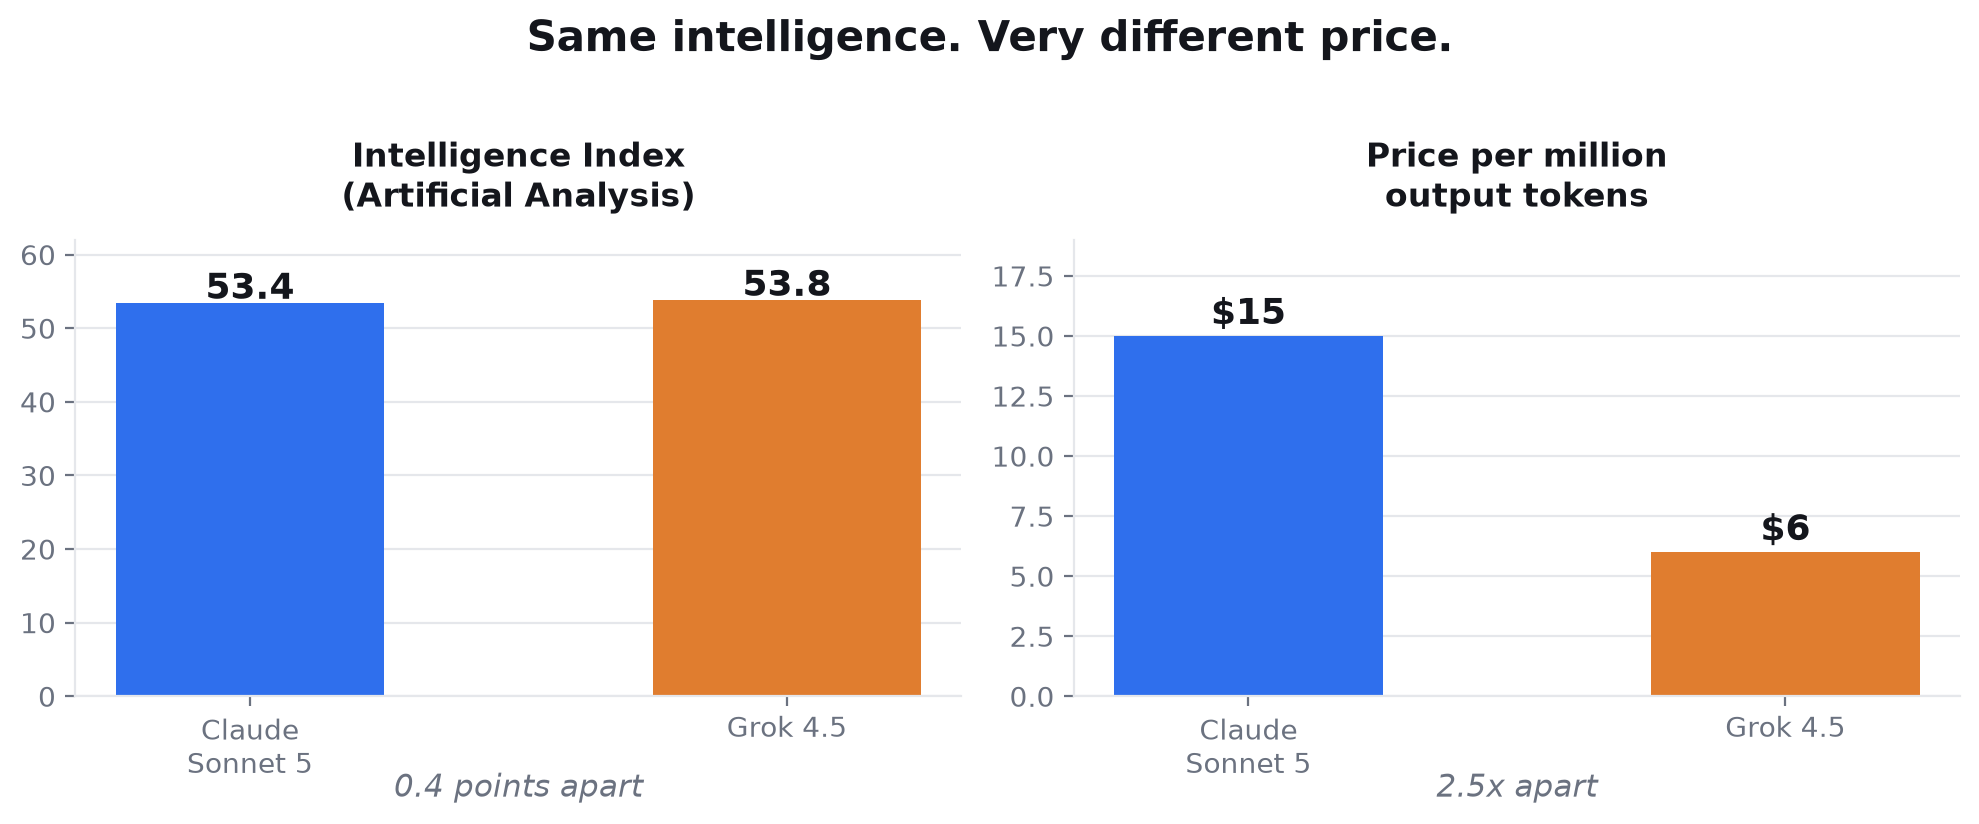
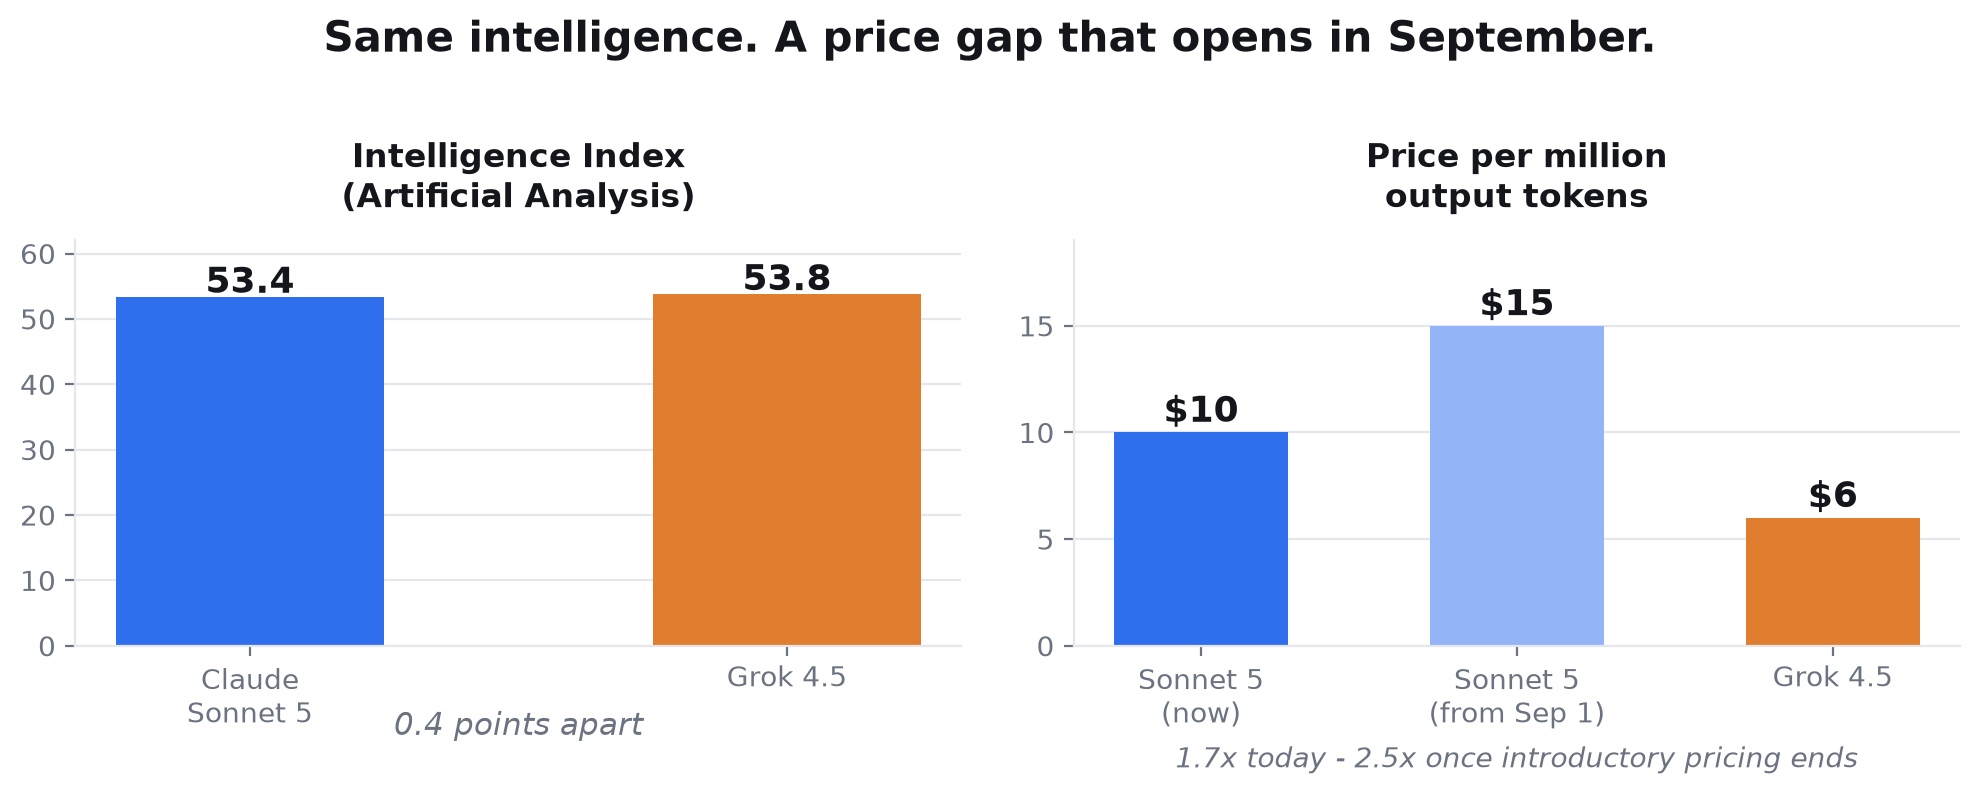
fix(posts): correct Sonnet 5 pricing from the vendor, not a secondary source
The post cited a third-party blog for Claude pricing and used $3/$15. Anthropic's
own docs show Sonnet 5 is on introductory pricing of $2/$10 through 31 Aug 2026,
with $3/$15 starting 1 Sep. So input is identical to Grok ($2 vs $2) and output
is 1.7x today, not 2.5x - the headline number was wrong.

Reframed around what is actually true and more useful: the models are near-level
on price right now, and the gap opens to 2.5x in September. Adds Anthropic's note
that Sonnet 5 tokenizes ~30% more tokens for the same text, so price per token
understates cost per unit of work. Chart redrawn with now/September/Grok bars.
Both labs pricing now cited first-party.

diff --git a/posts/2026-07-18-sonnet-5-vs-grok-4-5-one-line/index.html b/posts/2026-07-18-sonnet-5-vs-grok-4-5-one-line/index.html
@@ -4,28 +4,30 @@
   <meta charset="utf-8">
   <meta name="viewport" content="width=device-width, initial-scale=1.0">
   <meta name="author" content="ylnhari">
-  <meta name="description" content="Claude Sonnet 5 and Grok 4.5 sit 0.4 points apart on the Artificial Analysis index and 2.5x apart on output price. A practical comparison of where each one actually wins.">
-  <meta property="og:title" content="Claude Sonnet 5 vs Grok 4.5: Same Intelligence, Very Different Price">
-  <meta property="og:description" content="0.4 points apart on the independent intelligence index. 2.5x apart on output tokens. Where each model actually wins, and how to choose.">
+  <meta name="description" content="Claude Sonnet 5 and Grok 4.5 sit 0.4 points apart on the Artificial Analysis index. On price they are close today - until Sonnet's introductory rate ends on 31 August and the output gap widens to 2.5x.">
+  <meta property="og:title" content="Claude Sonnet 5 vs Grok 4.5: Same Intelligence, and a Price Gap Opening in September">
+  <meta property="og:description" content="0.4 points apart on the independent intelligence index, and nearly level on price - until Sonnet's introductory rate ends. Where each model actually wins, and how to choose.">
   <meta property="og:image" content="https://images.unsplash.com/photo-1516110833967-0b5716ca1387?w=1200&q=80">
-  <title>Claude Sonnet 5 vs Grok 4.5: Same Intelligence, Very Different Price</title>
+  <title>Claude Sonnet 5 vs Grok 4.5: Same Intelligence, and a Price Gap Opening in September</title>
   <link rel="stylesheet" href="../../assets/style.css">
 </head>
 <body>
 <article>
 
-<h1>Claude Sonnet 5 vs Grok 4.5: Same Intelligence, Very Different Price</h1>
+<h1>Claude Sonnet 5 vs Grok 4.5: Same Intelligence, and a Price Gap Opening in September</h1>
 <p class="byline">By ylnhari &middot; July 18, 2026 &middot; llm, benchmarks, claude, grok, cost-engineering</p>
 
 <img src="https://images.unsplash.com/photo-1516110833967-0b5716ca1387?w=1200&q=80" alt="Two robotic arms playing the same keyboard, representing two models of near-identical capability">
 
 <p>On the <a href="https://benchlm.ai/benchmarks/artificialAnalysis">Artificial Analysis Intelligence Index</a>, Grok 4.5 scores <strong>53.8</strong> and Claude Sonnet 5 scores <strong>53.4</strong>. Four tenths of a point &mdash; inside the noise of any single evaluation.</p>
 
-<p>On price they are nowhere near each other. Grok 4.5 bills <a href="https://x.ai/news/grok-4-5">$2 per million input tokens and $6 per million output</a>. Sonnet sits at <a href="https://simonwillison.net/2026/Jul/16/kimi-k3">$3 and $15</a>. On output &mdash; the expensive side of the meter &mdash; that is <strong>2.5x</strong>.</p>
+<p>On price, the comparison is more interesting than a straight ratio &mdash; because it changes in six weeks. Grok 4.5 bills <a href="https://x.ai/news/grok-4-5">$2 per million input tokens and $6 per million output</a>. Claude Sonnet 5 is currently on <a href="https://platform.claude.com/docs/en/about-claude/pricing">introductory pricing of $2 and $10</a>: identical on input, about <strong>1.7x</strong> on output.</p>
 
-<p>That is the whole decision in two numbers. The rest is working out when the gap matters.</p>
+<p>That introductory rate ends on <strong>31 August 2026</strong>. From 1 September, Sonnet 5 moves to $3 and $15, and the output gap widens to <strong>2.5x</strong>. So the honest answer to "how much cheaper is Grok?" is: somewhat, today &mdash; considerably, from September.</p>
 
-<img src="https://raw.githubusercontent.com/ylnhari/blog/main/posts/2026-07-18-sonnet-5-vs-grok-4-5-one-line/images/01-intelligence-vs-price.png" alt="Two bar charts. Left: Artificial Analysis Intelligence Index — Claude Sonnet 5 at 53.4 and Grok 4.5 at 53.8, just 0.4 points apart. Right: price per million output tokens — Sonnet at $15 and Grok at $6, a 2.5x gap.">
+<p>One subtlety widens it further. Anthropic notes that Sonnet 5 uses a newer tokenizer producing <strong>roughly 30% more tokens for the same text</strong>. Price per token is not the same as price per unit of work, and that difference lands on the output side, where the meter is most expensive.</p>
+
+<img src="https://raw.githubusercontent.com/ylnhari/blog/main/posts/2026-07-18-sonnet-5-vs-grok-4-5-one-line/images/01-intelligence-vs-price.png" alt="Two bar charts. Left: Artificial Analysis Intelligence Index — Claude Sonnet 5 at 53.4 and Grok 4.5 at 53.8, just 0.4 points apart. Right: price per million output tokens — Sonnet 5 at $10 on current introductory pricing, $15 from September 1, against Grok 4.5 at $6. The gap is 1.7x today and 2.5x once introductory pricing ends.">
 
 <h2>The tier this actually settles</h2>
 
@@ -39,7 +41,7 @@
 
 <blockquote>Grok 4.5 competes with Sonnet, not with Claude's best. Within that tier it is the better deal; above it, the tier is the thing you are buying.</blockquote>
 
-<p>There is a second cost lever that rarely makes headlines. xAI reports Grok 4.5 completing SWE Bench Pro tasks in about <strong>15,954 output tokens on average against Opus 4.8's 67,020</strong> &mdash; roughly 4.2x fewer. Token efficiency compounds with the per-token price, so on verbose agentic workloads the real-world gap is wider than the sticker 2.5x.</p>
+<p>There is a second cost lever that rarely makes headlines. xAI reports Grok 4.5 completing SWE Bench Pro tasks in about <strong>15,954 output tokens on average against Opus 4.8's 67,020</strong> &mdash; roughly 4.2x fewer. Token efficiency compounds with the per-token price, so on verbose agentic workloads the real-world gap is wider than any sticker ratio suggests.</p>
 
 <h2>What our own testing added</h2>
 
@@ -62,17 +64,17 @@
 <h2>So which one</h2>
 
 <ol>
-<li><strong>High-volume or long-running agentic work</strong> &mdash; Grok 4.5. It leads the long-horizon benchmark, costs 2.5x less per output token, and uses fewer of them. The savings compound twice.</li>
+<li><strong>High-volume or long-running agentic work</strong> &mdash; Grok 4.5. It leads the long-horizon benchmark, costs less per output token, and uses fewer of them. Both effects compound, and both grow in September.</li>
 <li><strong>Hard, repo-scale changes where correctness is expensive</strong> &mdash; Claude Fable 5, not Sonnet. The 80.4% to 64.7% gap on SWE Bench Pro belongs to the flagship; buying Sonnet does not buy you that number.</li>
 <li><strong>Document review &mdash; contracts, specs, long reports.</strong> Either, comfortably. Both recalled every buried fact and flagged every real contradiction without inventing one, which is the property that actually matters for this work.</li>
 <li><strong>Anything parsing messy real-world data</strong> &mdash; trust neither by default. Both are strong here and both can fail silently; feed them your ugliest inputs before shipping.</li>
-<li><strong>Everything else</strong> &mdash; take the cheaper token. At 0.4 index points apart, paying 2.5x for output needs a reason more specific than "it's the better model".</li>
+<li><strong>Everything else</strong> &mdash; today it is close enough that either is defensible. Revisit on 1 September, when the same choice costs 2.5x more on output. At 0.4 index points apart, that needs a reason more specific than "it's the better model".</li>
 </ol>
 
 <h2>Sources &amp; caveats</h2>
 
 <ul>
-<li>Index scores: <a href="https://benchlm.ai/benchmarks/artificialAnalysis">Artificial Analysis Intelligence Index</a>, July 2026 snapshot. Per-benchmark figures and token efficiency: <a href="https://x.ai/news/grok-4-5">xAI's Grok 4.5 launch post</a> (16 July 2026) &mdash; vendor-published, and competitor numbers there are drawn from each lab's own cards. Sonnet pricing via <a href="https://simonwillison.net/2026/Jul/16/kimi-k3">Simon Willison</a>.</li>
+<li>Index scores: <a href="https://benchlm.ai/benchmarks/artificialAnalysis">Artificial Analysis Intelligence Index</a>, July 2026 snapshot. Per-benchmark figures and token efficiency: <a href="https://x.ai/news/grok-4-5">xAI's Grok 4.5 launch post</a> (16 July 2026) &mdash; vendor-published, and competitor numbers there are drawn from each lab's own cards. Claude pricing, the introductory-rate end date, and the tokenizer note: <a href="https://platform.claude.com/docs/en/about-claude/pricing">Anthropic's own pricing documentation</a> &mdash; both labs' prices here come from the vendor, not a secondary report.</li>
 <li>Our hands-on run was a single pass through each model's chat product at default settings &mdash; enough to surface a failure mode, not to rank them. Treat it as an illustration, not a measurement.</li>
 <li>Grok was accessed through its chat product, which does not display the served model version. xAI published Grok 4.5 as its flagship on 16 July, so this is almost certainly it.</li>
 </ul>

diff --git a/posts/2026-07-18-sonnet-5-vs-grok-4-5-one-line/charts/make_charts.py b/posts/2026-07-18-sonnet-5-vs-grok-4-5-one-line/charts/make_charts.py
@@ -60,18 +60,22 @@ def chart_intelligence_vs_price():
 
     ax = axes[1]
     style(ax)
-    price = [15, 6]
-    ax.bar(models, price, color=colors, width=0.5)
+    # Sonnet 5 is on introductory pricing ($2/$10) through 31 Aug 2026;
+    # standard pricing ($3/$15) starts 1 Sep 2026. Source: Anthropic docs.
+    labels = ["Sonnet 5\n(now)", "Sonnet 5\n(from Sep 1)", "Grok 4.5"]
+    price = [10, 15, 6]
+    bar_colors = [CLAUDE, "#93b4f7", GROK]
+    ax.bar(labels, price, color=bar_colors, width=0.55)
     for i, v in enumerate(price):
         ax.text(i, v + 0.5, f"${v}", ha="center", fontsize=13, fontweight="bold", color=INK)
     ax.set_ylim(0, 19)
     ax.set_title("Price per million\noutput tokens", fontsize=12,
                  fontweight="bold", color=INK, pad=12)
-    ax.text(0.5, -0.22, "2.5x apart", transform=ax.transAxes, ha="center",
-            fontsize=11, color=MUTED, style="italic")
+    ax.text(0.5, -0.30, "1.7x today - 2.5x once introductory pricing ends",
+            transform=ax.transAxes, ha="center", fontsize=10, color=MUTED, style="italic")
 
-    fig.suptitle("Same intelligence. Very different price.", fontsize=15,
-                 fontweight="bold", color=INK, y=1.02)
+    fig.suptitle("Same intelligence. A price gap that opens in September.",
+                 fontsize=15, fontweight="bold", color=INK, y=1.02)
     fig.tight_layout()
     fig.savefig(os.path.join(OUT, "01-intelligence-vs-price.png"),
                 bbox_inches="tight", facecolor="white")